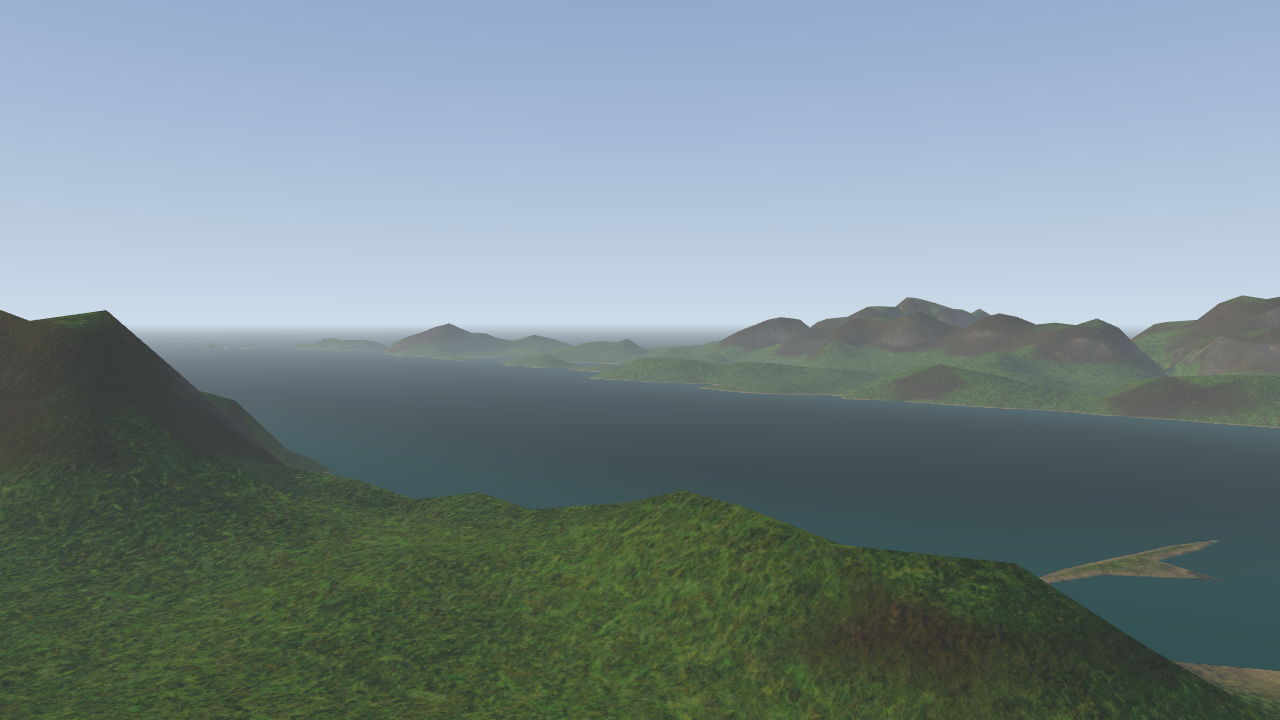
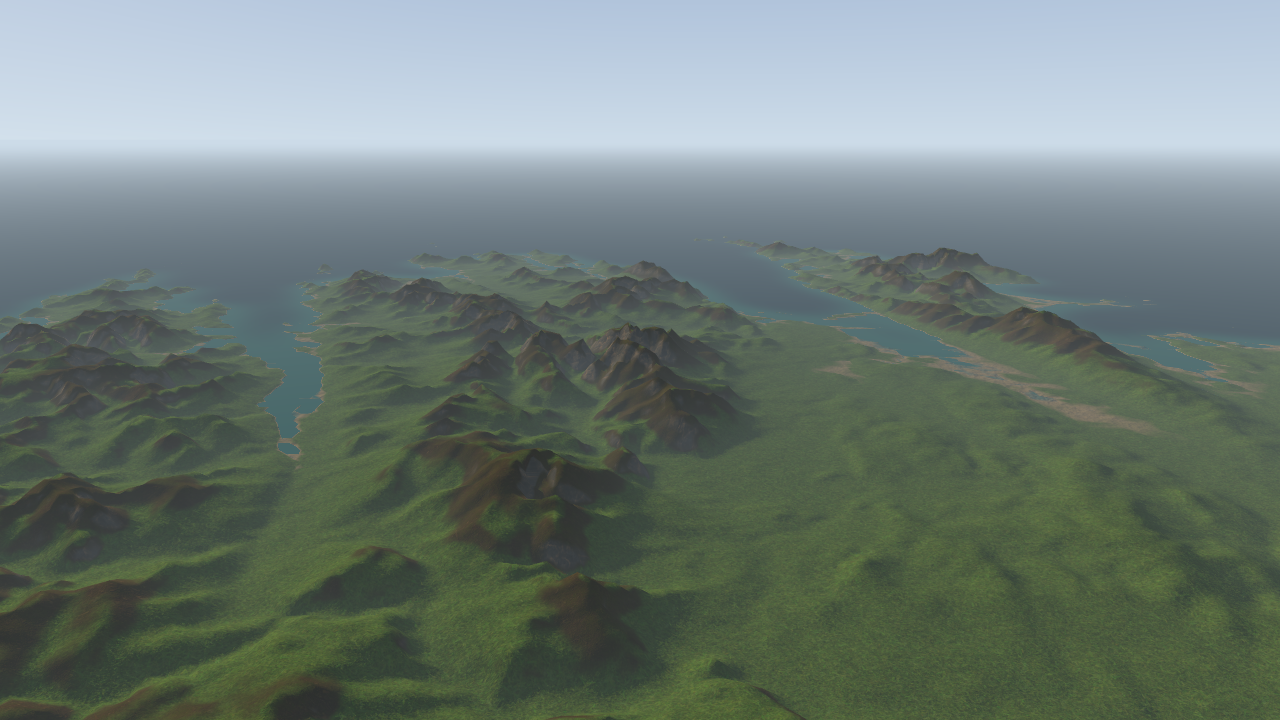
Use the Kerry view as the README hero

diff --git a/README.md b/README.md
@@ -6,7 +6,7 @@ A real-time terrain renderer of Ireland, written in C++17 and modern shader-base
 
 > **Work in progress.** This is a ground-up rebuild of my Year 4 Computer Graphics final project at Trinity College Dublin, *Toward a Futuristic Emerald Isle*. The original used legacy fixed-function OpenGL; this version is built on a programmable pipeline, runs on macOS, Windows and Linux, and implements the features the original only approximated.
 
-![Looking west-north-west from the Glenbeigh hills across Dingle Bay to the Dingle peninsula and the Atlantic (--view glenbeigh)](docs/images/hero.png)
+![MacGillycuddy's Reeks, Kerry, from the east, with per-pixel lighting, blended materials and height fog (--view kerry)](docs/images/hero.png)
 
 ## Roadmap
 
